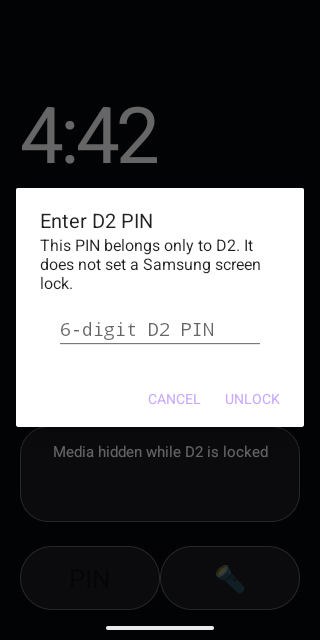
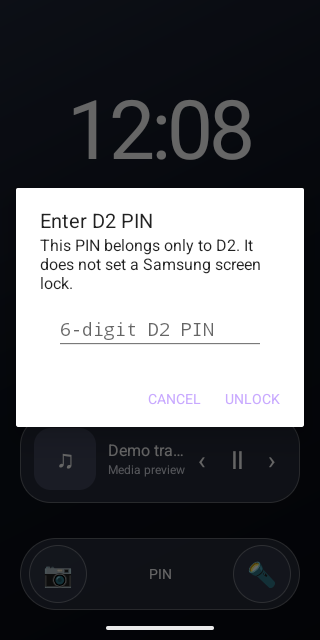
Refresh v0.4 screenshot gallery and documentation

diff --git a/README.md b/README.md
@@ -8,7 +8,7 @@ An independent Android app privacy screen with its own six-digit PIN. Version 0.
 
 ## Screenshots
 
-Captured from D2 v0.3.0 in an Android 16 emulator. Samsung/One UI appearance may differ.
+Captured from D2 v0.4.0 in an Android 16 emulator with sample media. These are not Samsung handset captures; One UI appearance may differ.
 
 <table>
   <tr>
@@ -18,6 +18,10 @@ Captured from D2 v0.3.0 in an Android 16 emulator. Samsung/One UI appearance may
   <tr>
     <td align="center"><strong>Independent D2 PIN</strong><br><img src="https://raw.githubusercontent.com/SysopBP/SamsungLockD2-Public/main/docs/screenshots/04-pin-prompt.png" width="270" alt="The six-digit D2 PIN prompt"></td>
     <td align="center"><strong>App settings</strong><br><img src="https://raw.githubusercontent.com/SysopBP/SamsungLockD2-Public/main/docs/screenshots/01-settings.png" width="270" alt="D2 settings with double-tap activation and the optional root kiosk switch"></td>
+  </tr>
+  <tr>
+    <td align="center"><strong>Appearance and media settings</strong><br><img src="https://raw.githubusercontent.com/SysopBP/SamsungLockD2-Public/main/docs/screenshots/05-customization.png" width="270" alt="Celsius and locked media settings"></td>
+    <td align="center"><strong>Privacy and bottom shortcuts</strong><br><img src="https://raw.githubusercontent.com/SysopBP/SamsungLockD2-Public/main/docs/screenshots/06-shortcuts.png" width="270" alt="Notification privacy and configurable camera and flashlight actions"></td>
   </tr>
 </table>
 
@@ -33,7 +37,7 @@ Captured from D2 v0.3.0 in an Android 16 emulator. Samsung/One UI appearance may
 
 **Show D2 when the screen wakes** is optional. Android may block background launches. Optional KernelSU root mode only requests this app's Activity launch. The bridge module can restart the opted-in service after boot; it does not provide pre-boot protection. Widget/manual activation does not require root.
 
-Notification access, camera, and approximate location are optional. Locked D2 screens hide notification identities/content and media metadata; camera and media controls are available only in authenticated Preview. Settings require the PIN again when returning from the background. PIN changes require the existing PIN.
+Notification access, camera, and approximate location are optional. Locked media metadata and playback controls can be shown through Settings when notification access is granted. Notification privacy can hide all notifications, show a count or app names, or show only content marked public by the sending app. The camera action requires the D2 PIN while locked; the flashlight can work without it. Settings require the PIN again when returning from the background. PIN changes require the existing PIN.
 
 ## Security boundary
 

diff --git a/docs/screenshots/README.md b/docs/screenshots/README.md
@@ -1,11 +1,13 @@
 # D2 screenshots
 
-These are unedited captures of D2 v0.3.0 running in an Android 16/API 36 emulator with the default background and disposable test data. They are not captures from a Samsung handset.
+These are unedited captures of D2 v0.4.0 running in an Android 16/API 36 emulator with the default background, sample media metadata, and disposable test data. They are not captures from a Samsung handset.
 
 - `01-settings.png`: authenticated app settings.
 - `02-preview.png`: unlocked lock-screen preview.
 - `03-kiosk-lock.png`: independent PIN screen with full root kiosk mode active.
 - `04-pin-prompt.png`: the D2 PIN dialog over the active lock screen.
+- `05-customization.png`: Celsius and locked media switches.
+- `06-shortcuts.png`: notification privacy and configurable bottom actions.
 
 To refresh them, run **Capture app screenshots** from the repository's Actions page and download the **D2-screenshots** artifact. Inspect the images before replacing these files.
 
